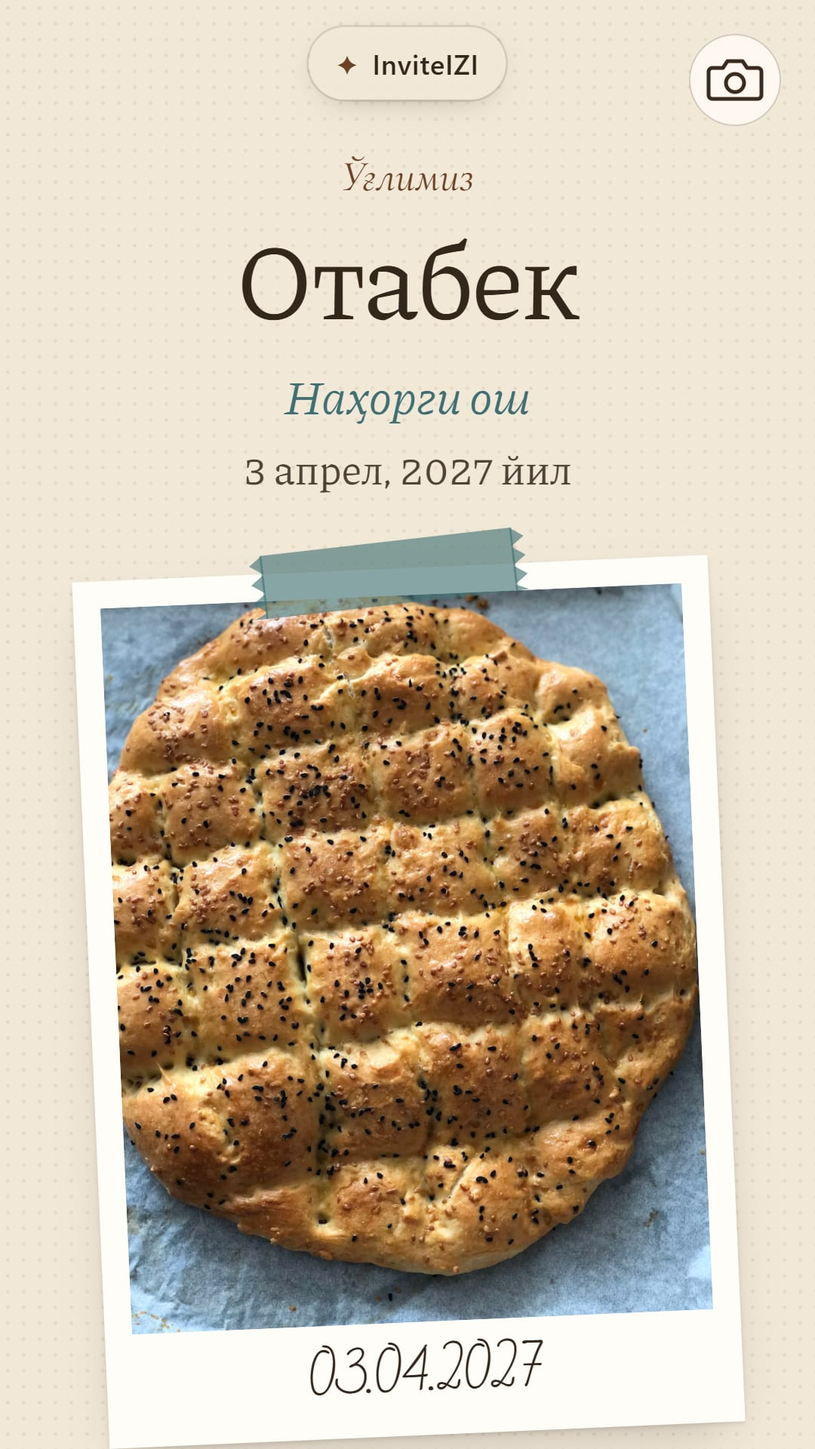
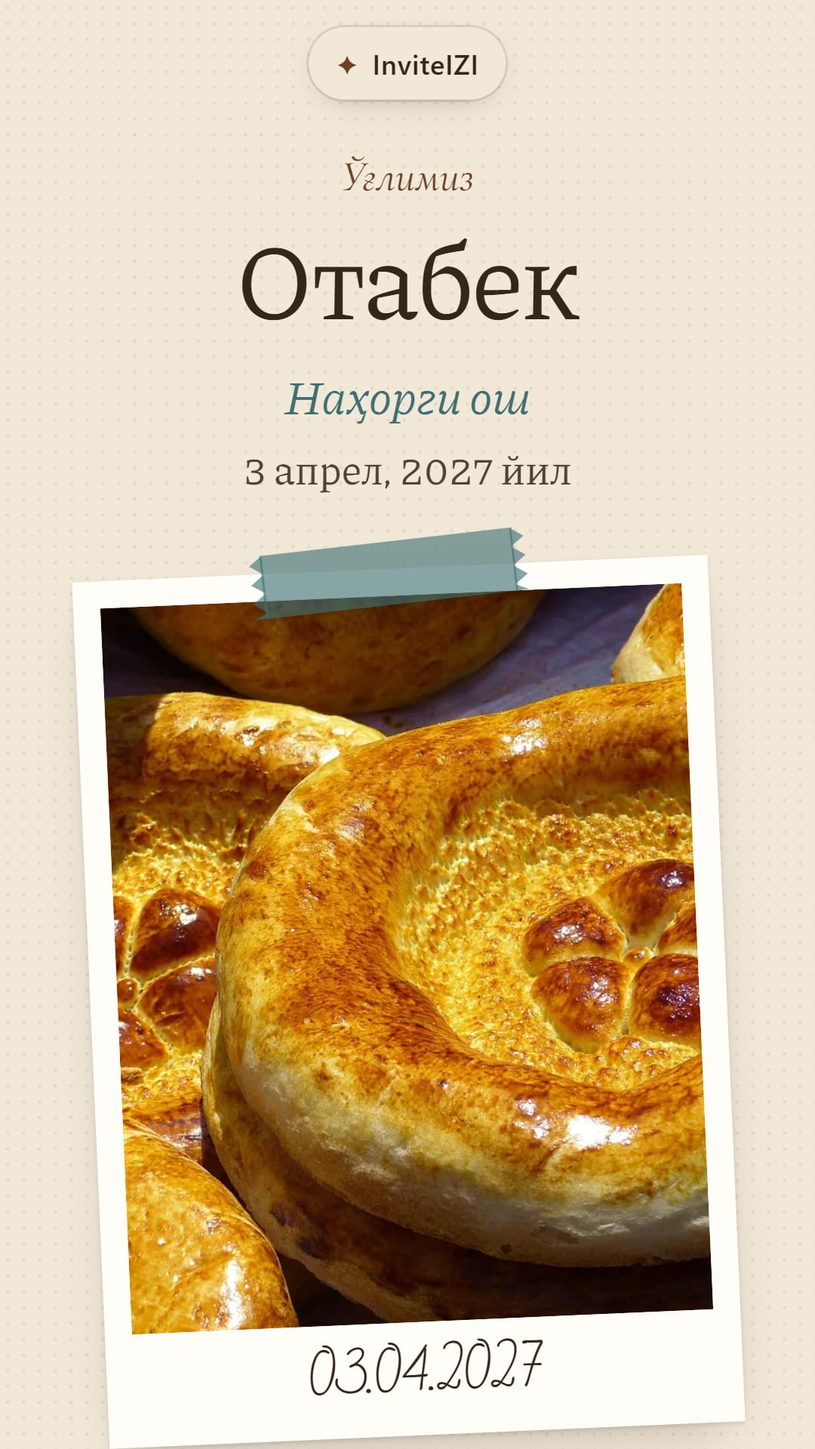
Фаза 1: наҳорги ош без фото клиента (116, 124, 125) — нет шага 📷, строки в подписи и значка на обложке; на странице фото клиента только у clientPhotos-дизайнов. Встроенные фото — настоящие узбекские: нон со штампом, ош на адрас-ляганде, Самарқанд, чой в Хиве, чойнак у Ляби-ҳовуза (CC BY-SA с подпись

diff --git a/templates/registry.ts b/templates/registry.ts
@@ -183,7 +183,7 @@ const rawDesigns: RawDesign[] = [
   design("muhr", 113, "nikoh", "animated", false, () => import("./themes/muhr/Design"), { clientPhotos: true }),
   design("ipak", 114, "nikoh", "animated", false, () => import("./themes/ipak/Design"), { clientPhotos: true }),
   design("bog", 115, "sunnat", "scroll", false, () => import("./themes/bog/Design"), { clientPhotos: true }),
-  design("tong-dasturxon", 116, "nahorgi", "scroll", false, () => import("./themes/tong-dasturxon/Design"), { clientPhotos: true }),
+  design("tong-dasturxon", 116, "nahorgi", "scroll", false, () => import("./themes/tong-dasturxon/Design")),
   // ── «Гулли рамка»: акварельные цветы с краёв + карточка в центре, без фото (03.11.2026) ──
   design("gul-doira", 117, "nikoh", "animated", false, () => import("./themes/gul-doira/Design")),
   design("girih-barg", 118, "nikoh", "animated", false, () => import("./themes/girih-barg/Design")),
@@ -198,10 +198,10 @@ const rawDesigns: RawDesign[] = [
   design("tong-varaq", 126, "nahorgi", "scroll", false, () => import("./themes/tong-varaq/Design")),
   design("nur-varaq", 130, "nikoh", "scroll", false, () => import("./themes/nur-varaq/Design"), { clientPhotos: true }),
   design("islimi-varaq", 131, "nikoh", "scroll", false, () => import("./themes/islimi-varaq/Design")),
-  design("non-albom", 124, "nahorgi", "simple", false, () => import("./themes/non-albom/Design"), { clientPhotos: true }),
+  design("non-albom", 124, "nahorgi", "simple", false, () => import("./themes/non-albom/Design")),
   design("ipak-albom", 128, "nikoh", "simple", false, () => import("./themes/ipak-albom/Design"), { clientPhotos: true }),
   design("xotira-albom", 132, "nikoh", "scroll", false, () => import("./themes/xotira-albom/Design"), { clientPhotos: true }),
-  design("qozon-tongi", 125, "nahorgi", "animated", false, () => import("./themes/qozon-tongi/Design"), { clientPhotos: true }),
+  design("qozon-tongi", 125, "nahorgi", "animated", false, () => import("./themes/qozon-tongi/Design")),
   design("visol-hikoya", 133, "nikoh", "animated", false, () => import("./themes/visol-hikoya/Design"), { clientPhotos: true }),
   design("ganch-darvoza", 134, "sunnat", "animated", false, () => import("./themes/ganch-darvoza/Design")),
   design("doppi-kitob", 135, "sunnat", "scroll", false, () => import("./themes/doppi-kitob/Design")),

diff --git a/templates/themes/qozon-tongi/Design.tsx b/templates/themes/qozon-tongi/Design.tsx
@@ -1,7 +1,7 @@
 "use client";
 /**
- * «Қозон тонги» (125) — наҳорги ош, Анимацияли, С ФОТО, структура S1 «Фото-ҳикоя».
- * Открытие — тандирные нонлар на весь экран; рассказ в цветах дыма и углей. Запасные фото — нон, чойнак, ош на атлас-ляганде.
+ * «Қозон тонги» (125) — наҳорги ош, Анимацияли, структура S1 «Фото-ҳикоя». Фото клиента на наҳорги ош не ставим (решение владельца 03.11).
+ * Открытие — Самарқанд на рассвете на весь экран; рассказ в цветах дыма и углей. Дальше — чой в Хиве, ош на адрас-ляганде.
  */
 import type { TemplateProps } from "../types";
 import { Hikoya } from "../b3/s1-hikoya";
@@ -27,8 +27,8 @@ export default function QozonTongi(props: TemplateProps) {
       look={s}
       motif={<Qozon />}
       photos={[
-        { kind: "unsplash", slot: "b3-non", w: 900 },
-        { kind: "unsplash", slot: "b3-tea-2", w: 500 },
+        { kind: "local", slot: "nahorgi-samarkand-b" },
+        { kind: "unsplash", slot: "n-khiva-tea", w: 500 },
         { kind: "unsplash", slot: "b3-plov", w: 900 },
       ]}
     />

diff --git a/templates/themes/non-albom/Design.tsx b/templates/themes/non-albom/Design.tsx
@@ -1,7 +1,7 @@
 "use client";
 /**
- * «Нон альбом» (124) — наҳорги ош, Оддий, С ФОТО, структура S5 «Альбом».
- * Пшеничная бумага, ореховый текст, лента цвета изразца; запасные фото — нон, чой, дастурхон.
+ * «Нон альбом» (124) — наҳорги ош, Оддий, структура S5 «Альбом». Фото клиента на наҳорги ош не ставим (решение владельца 03.11).
+ * Пшеничная бумага, ореховый текст, лента цвета изразца; фото — тандирный нон со штампом, ош на адрас-ляганде, Самарқанд на рассвете.
  */
 import type { TemplateProps } from "../types";
 import { Albom } from "../b3/s5-albom";
@@ -27,9 +27,9 @@ export default function NonAlbom(props: TemplateProps) {
       look={s}
       motif={<Non />}
       photos={[
-        { kind: "unsplash", slot: "b3-non-2", w: 800 },
-        { kind: "unsplash", slot: "b3-tea", w: 500 },
-        { kind: "unsplash", slot: "b3-tea-3", w: 500 },
+        { kind: "local", slot: "nahorgi-non-close" },
+        { kind: "unsplash", slot: "dastur-plov-2", w: 500 },
+        { kind: "local", slot: "nahorgi-samarkand-a" },
       ]}
     />
   );

diff --git a/bot/flow.photo-designs.test.ts b/bot/flow.photo-designs.test.ts
@@ -91,4 +91,26 @@ describe("пометка «с фото» и шаг фото по дизайну"
     expect(st.data?.photos ?? []).toEqual([]);
   });
 
+  it("наҳорги ош: ни у одного дизайна нет фото клиента — ни строки 📷 в подписи, ни шага фото", async () => {
+    const formats = ["animated", "scroll", "simple"] as const;
+    const all = formats.flatMap((f) => designsFor("nahorgi", f));
+    expect(all.length).toBeGreaterThan(0);
+    for (const d of all) expect(d.clientPhotos, d.id).toBeFalsy();
+    for (const f of formats) {
+      const list = designsFor("nahorgi", f);
+      if (!list.length) continue;
+      const s = photoSim();
+      await startUz(s, 1);
+      await s.click(1, uz.category.nahorgi);
+      await s.click(1, new RegExp(uz.format.names[f]));
+      // ▶ правит то же сообщение — подпись проверяем на каждом шаге листания
+      for (const [k, d] of list.entries()) {
+        if (k > 0) await s.click(1, "▶");
+        const card = s.tg.to(1).filter((m) => m.type === "photo").at(-1)!;
+        expect(card.text, d.id).toContain(`№${d.number} `);
+        expect(card.text.includes(uz.catalog.withPhoto), d.id).toBe(false);
+      }
+    }
+  });
+
 });

diff --git a/templates/themes/tong-dasturxon/Design.tsx b/templates/themes/tong-dasturxon/Design.tsx
@@ -44,7 +44,7 @@ const vars = {
 
 export default function TongDasturxon({ data, mode }: TemplateProps) {
   const inv = useInvitation(data, mode, { melody, opening: false });
-  // Плов — всегда настоящий плов (это суть наҳорги ош); фото клиента встают вместо нона и чая
+  // Плов — всегда настоящий плов (это суть наҳорги ош); фото клиента на наҳорги ош не ставим (решение владельца 03.11)
   const plov = stock({
     kind: "unsplash",
     slot: "dastur-plov-top",
@@ -53,7 +53,7 @@ export default function TongDasturxon({ data, mode }: TemplateProps) {
   });
   const photos = shots(data, [
     { kind: "local", slot: "dastur-non" },
-    { kind: "unsplash", slot: "dastur-tea-warm", w: 560, h: 700 },
+    { kind: "local", slot: "nahorgi-choy-bukhara" },
   ]);
   const w = inv.main.when;
   const morning = inv.program[0] ?? inv.main;

diff --git a/templates/themes/natural/natural.test.ts b/templates/themes/natural/natural.test.ts
@@ -13,11 +13,12 @@ describe("натуральные пилоты", () => {
     for (const w of words) expect(w, w).not.toMatch(/[ҚқҒғҲҳ]/);
   });
 
-  it("в реестре, приняты, поддерживают фото клиента и имеют обложки", () => {
+  it("в реестре, приняты, фото клиента (кроме наҳорги ош) и имеют обложки", () => {
     for (const id of PILOTS) {
       const d = designs.find((x) => x.id === id);
       expect(d, id).toBeTruthy();
-      expect(d!.clientPhotos, id).toBe(true);
+      // наҳорги ош — без фото клиента (решение владельца 03.11.2026)
+      expect(Boolean(d!.clientPhotos), id).toBe(d!.occasion !== "nahorgi");
       expect(ACCEPTED.has(id), id).toBe(true);
       expect(existsSync(`public/covers/${id}.webp`) && existsSync(`public/covers/${id}.jpg`), id).toBe(true);
     }

diff --git a/bot/flow.form.test.ts b/bot/flow.form.test.ts
@@ -15,7 +15,7 @@ describe("весь путь наҳорги ош на русском", () => {
     expect((await sim.user(id))?.source).toBe("qr_sayram");
     await sim.click(id, ru.category.nahorgi);
     await sim.click(id, /С прокруткой/);
-    expect(sim.last(id).text).toMatch(/^№116 · Тонгги дастурхон\nС прокруткой · 6.000 ₸\n📷 Можно добавить своё фото$/); // после чистки 03.11; дизайн с фото клиента
+    expect(sim.last(id).text).toMatch(/^№116 · Тонгги дастурхон\nС прокруткой · 6.000 ₸$/); // наҳорги ош — без фото клиента (решение владельца 03.11): строки «📷» нет
     await sim.click(id, ru.catalog.buy);
 
     expect(sim.lastText(id)).toBe(ru.form.personNahorgi);

diff --git a/app/[slug]/page.tsx b/app/[slug]/page.tsx
@@ -65,7 +65,9 @@ async function Invitation({ params }: { params: PageProps<"/[slug]">["params"] }
   if (!design) notFound();
 
   const { default: Design } = await loadOrderDesign(design, page.data.designVersion);
-  return <Design data={page.data} mode={page.mode} art={existingArt(design)} />;
+  // Фото клиента — только у дизайнов с clientPhotos (наҳорги ош — никогда): старые фото после смены дизайна не всплывают
+  const data = design.clientPhotos ? page.data : { ...page.data, photos: undefined };
+  return <Design data={data} mode={page.mode} art={existingArt(design)} />;
 }
 
 /** Пока загружается заказ: тот же молочный фон, без мигания белым */

diff --git a/templates/themes/natural/photos.ts b/templates/themes/natural/photos.ts
@@ -27,5 +27,7 @@ export function localPhoto(slot: LocalSlot) {
 
 export function localCredit(slot: LocalSlot): PhotoCredit {
   const p = localPhoto(slot);
+  // CC BY / BY-SA (Wikimedia): «Автор / CC BY-SA 4.0» — ссылка на файл у автора, на лицензию у её названия
+  if (p.license.startsWith("CC BY")) return { author: p.author, authorUrl: p.source, source: p.license, sourceUrl: p.licenseUrl };
   return { author: p.author, authorUrl: p.source, source: p.source.includes("pixabay") ? "Pixabay" : "Openverse", sourceUrl: p.source };
 }

diff --git a/public/art/CREDITS.md b/public/art/CREDITS.md
@@ -1,44 +1,28 @@
 # Фото: авторы и источники
 
-Настоящие фотографии, скачанные и подготовленные для InviteIZI. Источник и лицензия указаны у каждого материала; прежние фото Pixabay используют Pixabay Content License.
+Все фото — Pixabay (Pixabay Content License), скачаны и сжаты для InviteIZI.
 
 - `anor-bogi.webp` — AselvadaAna, https://pixabay.com/photos/pomegranate-fruit-tree-leaves-5609442/
-- Прежние, отсутствующие в этой копии `bodom-guli-2.webp` / `bodom-guli.webp` — niki_emmert / paulclee: https://pixabay.com/photos/almond-blossom-flower-branch-7931718/ и https://pixabay.com/photos/almond-blossom-almond-blossom-petal-3325634/. Не используются; источник текущего `bodom-guli.webp` ниже.
-- `tandir-nuri.webp` — LoggaWiggler, https://pixabay.com/photos/loaf-flatbread-food-bread-stamp-196511/
-
 - `atirgul.webp` — Alex Blăjan alexb; [Rose Bouquet (Unsplash).jpg](https://commons.wikimedia.org/wiki/File:Rose_Bouquet_(Unsplash).jpg); CC0 1.0, http://creativecommons.org/publicdomain/zero/1.0/deed.en. Проверено 25.10.2026. Изменения: уменьшение до 1080 px, мягкое размытие, WebP.
-
-- `dasturxon.webp` — Bestalex; [Плов на рынке Чорсу в Ташкенте, 2026-05-02.jpg](https://commons.wikimedia.org/wiki/File:%D0%9F%D0%BB%D0%BE%D0%B2_%D0%BD%D0%B0_%D1%80%D1%8B%D0%BD%D0%BA%D0%B5_%D0%A7%D0%BE%D1%80%D1%81%D1%83_%D0%B2_%D0%A2%D0%B0%D1%88%D0%BA%D0%B5%D0%BD%D1%82%D0%B5,_2026-05-02.jpg); CC0 1.0, http://creativecommons.org/publicdomain/zero/1.0/deed.en. Проверено 25.10.2026. Изменения: уменьшение до 1080 px, мягкое размытие, WebP.
-
 - `bodom-guli.webp` — Dulcineia Dias dulcineiadias; [Almond Blossom (Unsplash).jpg](https://commons.wikimedia.org/wiki/File:Almond_Blossom_(Unsplash).jpg); CC0 1.0, http://creativecommons.org/publicdomain/zero/1.0/deed.en. Проверено 26.10.2026. Изменения: уменьшение до 1080 px, мягкое размытие, WebP.
-
-- `samarqand-kitob.webp` — Bernard Gagnon; [Registan 01.jpg](https://commons.wikimedia.org/wiki/File:Registan_01.jpg); CC0 1.0, http://creativecommons.org/publicdomain/zero/1.0/deed.en. Проверено 26.10.2026. Изменения: уменьшение до 1080 px, мягкое размытие, WebP.
-
-- `tonggi-choy.webp` — Ekaterina Kvelidze; [Uzbek tea couple with traditional coloration.jpg](https://commons.wikimedia.org/wiki/File:Uzbek_tea_couple_with_traditional_coloration.jpg); CC BY-SA 4.0, https://creativecommons.org/licenses/by-sa/4.0. Проверено 26.10.2026. Изменения: уменьшение до 1080 px, мягкое размытие, WebP. Производные фото, включая кадры в covers/ и og/, распространяются под CC BY-SA 4.0; код и данные заказа отдельно. На пригласительной сохраняется атрибуция и ссылка лицензии.
-
-- `gulbog-sahifa.webp` — Vladislav Litvinov; [Rose Garden (50131461538).jpg](https://commons.wikimedia.org/wiki/File:Rose_Garden_(50131461538).jpg); CC0 1.0, http://creativecommons.org/publicdomain/zero/1.0/deed.en. Проверено 27.10.2026. Изменения: уменьшение до 1080 px, мягкое размытие, WebP.
-
-- `lola-ehtirom.webp` — Mustang Joe; [Tulip (32689468476).jpg](https://commons.wikimedia.org/wiki/File:Tulip_(32689468476).jpg); CC0 1.0, http://creativecommons.org/publicdomain/zero/1.0/deed.en. Проверено 27.10.2026. Изменения: уменьшение до 1080 px, мягкое размытие, WebP.
-
-
-## Premium final release — reused CC0 photographs
-
-No new external photographs were downloaded. The originals, creators and CC0 1.0 sources above also cover these new layouts and their derived catalog/OG crops:
-
-- `marvarid-satr` — `bodom-guli.webp` (Dulcineia Dias).
+- `dasturxon.webp` — Bestalex; [Плов на рынке Чорсу в Ташкенте, 2026-05-02.jpg](https://commons.wikimedia.org/wiki/File:%D0%9F%D0%BB%D0%BE%D0%B2_%D0%BD%D0%B0_%D1%80%D1%8B%D0%BD%D0%BA%D0%B5_%D0%A7%D0%BE%D1%80%D1%81%D1%83_%D0%B2_%D0%A2%D0%B0%D1%88%D0%BA%D0%B5%D0%BD%D1%82%D0%B5,_2026-05-02.jpg); CC0 1.0, http://creativecommons.org/publicdomain/zero/1.0/deed.en. Проверено 25.10.2026. Изменения: уменьшение до 1080 px, мягкое размытие, WebP.
 - `dutor-navosi` — `gulbog-sahifa.webp` (Vladislav Litvinov).
-- `umr-sahifalari` — `lola-ehtirom.webp` (Mustang Joe).
+- `gulbog-sahifa.webp` — Vladislav Litvinov; [Rose Garden (50131461538).jpg](https://commons.wikimedia.org/wiki/File:Rose_Garden_(50131461538).jpg); CC0 1.0, http://creativecommons.org/publicdomain/zero/1.0/deed.en. Проверено 27.10.2026. Изменения: уменьшение до 1080 px, мягкое размытие, WebP.
 - `kabutar-salom`, `yelpigich-ziynat`, `samarqand-kitob` — the stage-1 mappings documented in `docs/reviews/wedding-premium-stage1.md`.
-
-`public/materials/paper-fibers.svg` is original project-authored decorative linework, not a photograph or third-party texture.
-
-
-- `natural/ipak-silk-video.mp4` (и постер) — GreenCardShow, https://pixabay.com/videos/id-14534/; Pixabay Content License. Изменения: фрагмент 8 с, вертикальная обрезка 540×960, без звука.
-
+- `lola-ehtirom.webp` — Mustang Joe; [Tulip (32689468476).jpg](https://commons.wikimedia.org/wiki/File:Tulip_(32689468476).jpg); CC0 1.0, http://creativecommons.org/publicdomain/zero/1.0/deed.en. Проверено 27.10.2026. Изменения: уменьшение до 1080 px, мягкое размытие, WebP.
+- `marvarid-satr` — `bodom-guli.webp` (Dulcineia Dias).
 - `natural/dastur-non.webp` — LoggaWiggler, https://pixabay.com/photos/loaf-flatbread-food-bread-stamp-196510/ Pixabay Content License. Изменения: уменьшение, WebP.
-
-- `natural/sprig.webp` — SYG_Anime, https://pixabay.com/illustrations/leaves-plant-watercolor-eucalyptus-5672036/; Pixabay Content License (иллюстрация-акварель, не ИИ). Изменения: обрезка, уменьшение, WebP с прозрачностью.
-
 - `natural/eucalyptus.webp` — PhuongLucky, https://pixabay.com/vectors/wedding-floral-flower-summer-7129271/; Pixabay Content License (иллюстрация-акварель, не ИИ). Изменения: обрезка, уменьшение, WebP с прозрачностью.
-
 - `natural/garland.webp` — PhuongLucky, https://pixabay.com/vectors/frame-copy-space-design-decorate-6626904/; Pixabay Content License (иллюстрация-акварель, не ИИ). Изменения: обрезка, уменьшение, WebP с прозрачностью.
+- `natural/ipak-silk-video.mp4` (и постер) — GreenCardShow, https://pixabay.com/videos/id-14534/; Pixabay Content License. Изменения: фрагмент 8 с, вертикальная обрезка 540×960, без звука.
+- `natural/nahorgi-non-close.webp` — LoggaWiggler, https://pixabay.com/photos/loaf-flatbread-food-bread-stamp-196511/
+- `natural/nahorgi-samarkand-a.webp` — xusenru, https://pixabay.com/photos/samarkand-architecture-registan-9780493/
+- `natural/nahorgi-samarkand-b.webp` — xusenru, https://pixabay.com/photos/samarkand-architecture-registan-9780503/
+- `natural/sprig.webp` — SYG_Anime, https://pixabay.com/illustrations/leaves-plant-watercolor-eucalyptus-5672036/; Pixabay Content License (иллюстрация-акварель, не ИИ). Изменения: обрезка, уменьшение, WebP с прозрачностью.
+- `samarqand-kitob.webp` — Bernard Gagnon; [Registan 01.jpg](https://commons.wikimedia.org/wiki/File:Registan_01.jpg); CC0 1.0, http://creativecommons.org/publicdomain/zero/1.0/deed.en. Проверено 26.10.2026. Изменения: уменьшение до 1080 px, мягкое размытие, WebP.
+- `tandir-nuri.webp` — LoggaWiggler, https://pixabay.com/photos/loaf-flatbread-food-bread-stamp-196511/
+- `tonggi-choy.webp` — Ekaterina Kvelidze; [Uzbek tea couple with traditional coloration.jpg](https://commons.wikimedia.org/wiki/File:Uzbek_tea_couple_with_traditional_coloration.jpg); CC BY-SA 4.0, https://creativecommons.org/licenses/by-sa/4.0. Проверено 26.10.2026. Изменения: уменьшение до 1080 px, мягкое размытие, WebP. Производные фото, включая кадры в covers/ и og/, распространяются под CC BY-SA 4.0; код и данные заказа отдельно. На пригласительной сохраняется атрибуция и ссылка лицензии.
+- `umr-sahifalari` — `lola-ehtirom.webp` (Mustang Joe).
+- Прежние, отсутствующие в этой копии `bodom-guli-2.webp` / `bodom-guli.webp` — niki_emmert / paulclee: https://pixabay.com/photos/almond-blossom-flower-branch-7931718/ и https://pixabay.com/photos/almond-blossom-almond-blossom-petal-3325634/. Не используются; источник текущего `bodom-guli.webp` ниже.
+- `natural/nahorgi-choy-bukhara.webp` — копия `tonggi-choy.webp` (Ekaterina Kvelidze, Wikimedia Commons, CC BY-SA 4.0) для наҳорги ош 116 «Тонгги дастурхон». На странице: «Сурат: Ekaterina Kvelidze / CC BY-SA 4.0» со ссылками на файл и лицензию.
+- `natural/n-khiva-tea` (Unsplash, hotlink) — Bernd Dittrich, лимонный чай и минарет Ислам-Ходжа, Хива.

diff --git a/docs/design/higgsfield-todo.md b/docs/design/higgsfield-todo.md
@@ -22,3 +22,11 @@ Openverse 02.11 не отвечал (502/504) — узбекские фото в
 | 120 Тонгги пиёла (наҳорги ош) | чайник и пиёла нарисованы линией (код) + листья | Акварельный чайник и пиёла «пахта-нусха» (кобальт на белом), рядом нон и гроздь винограда |
 | 121 Лола ва бодом (суннат) | розовые тюльпаны (приглушены фильтром) + розовые цветы | Ветка цветущего бодома (миндаля) — бело-розовые цветы на тёмной ветке; тюльпаны спокойных тонов — белые/кремовые с зелёным |
 | 117/122 | розы, пионы | (по желанию) атиргул и пион в одной палитре — сейчас два разных автора |
+
+## 03.11.2026 — наҳорги ош (финал перед релизом)
+Фото клиента на наҳорги ош больше не ставим. Встроенные фото заменены на настоящие узбекские (нон со штампом — Pixabay LoggaWiggler, ош на адрас-ляганде — Unsplash otabek xatipov, Самарқанд — Pixabay xusenru, чой в Хиве — Unsplash Bernd Dittrich, чойнак и пиёлалар у Ляби-ҳовуза — Wikimedia, CC BY-SA 4.0).
+Не нашлось настоящих фото с коммерческой лицензией — нужен Higgsfield (без лиц крупным планом):
+- Казан с ошом на огне, дым, рассвет во дворе (сейчас в «Қозон тонги» — нарисованный мотив казана).
+- Руки, разливающие чай из чойнака с пахта-узором в пиёлу (сейчас чойнак стоит на столе — 116).
+- Тандир: нон на стенке тандира, раннее утро (на Openverse есть CC BY 4.0 от AIDEPCUL, но Openverse не отдавал превью — 504/424).
+- Сўри/чайхана под тутом утром, без людей крупно.
